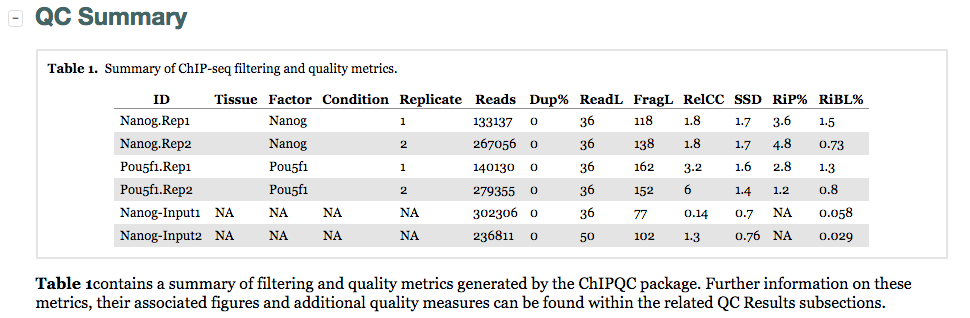
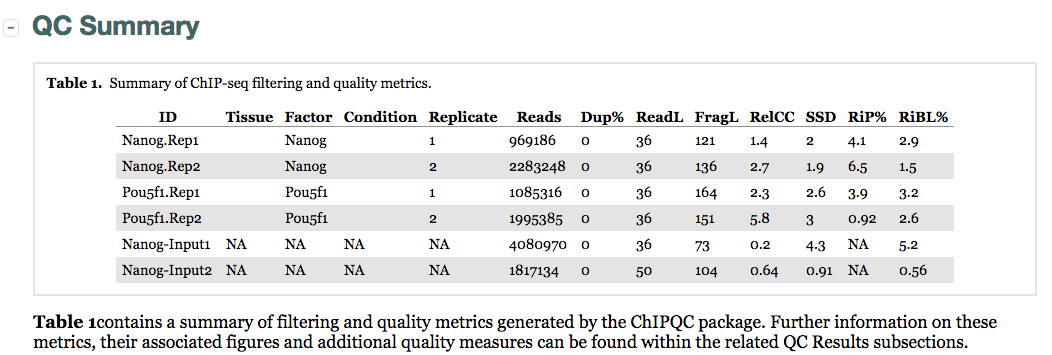
adding chipqc report images

Changed region(s): [[0.0309, 0.283, 0.9897, 0.9906], [0.0309, 0.1415, 0.9897, 0.2547], [0.0, 0.0, 0.2165, 0.1132]]

diff --git a/sessionV/lessons/05_QC_quality_metrics.md b/sessionV/lessons/05_QC_quality_metrics.md
@@ -139,12 +139,21 @@ Since our report is based only on a small suubset of data, the figures will not 
 
 Let's start with the **QC summary table**:
 
-<img src="../img/QCsummary.png" width=500>
+<img src="../img/QCsummary.png">
 
-Here, we see the metrics mentioned above (SSD, RiP and RiBL) in addition to other statistics related to the strand cross-correlation (FragLength and RelCC).
+Here, we see the metrics mentioned above (SSD, RiP and RiBL). A higher SSD is more indicative of better enrichment. Higher scores are obseved for the Pou5f1 replicates and so greatest enrichment for depth of signal. SSD scores are dependent on the degree of total genome wide signal pile-up and so are sensitive to regions of high signal found with Blacklisted regions as well as genuine ChIP enrichment. The RiBL percentages are not incredibly high (also shown in the plot in the  next section) and FriP percentages are around 5% or higher, except for Pou5f1-rep2. 
 
+Additionally, we see other statistics related to the strand cross-correlation (FragLength and RelCC which is similar to the RSC). With RelCC values larger than one for all ChIP samples suggest good enrichment.
 
+The next table contains **the mapping quality, and duplication rate,** however since we had already filtered our BAM files we find the numbers do not report much for us.
 
+Next is a plot showing the effect of blacklisting, with the proportion of reads that do and do not overlap with blacklisted regions. The final plot in this section uses the genomic annotation to show **where reads map in terms of genomic features**. This is represented as a heatmap showing the enrichment of reads compared to the background levels of the feature. We find that there is most enrichment in promotor regions. This plot is useful when you expect enrichment of specific genomic regions.  
+ 
+<img src="../img/GenomicFeatureEnrichment.png" width=500>
+
+The next section, **ChIP Signal Distribution and Structure**, looks at the inherent ”peakiness” of the samples. The first plot is a **coverage histogram**. The x-axis represent the read pileup height at a basepair position, and the y-axis represents how many positions have this pileup height. This is on a log scale. **A ChIP sample with good enrichment should have a reasonable ”tail”.**
+
+<img src="../img/CoverageHistogramPlot.png" width=500>
 
 ## Experimental biases: sources of low quality ChIP-seq data
 
